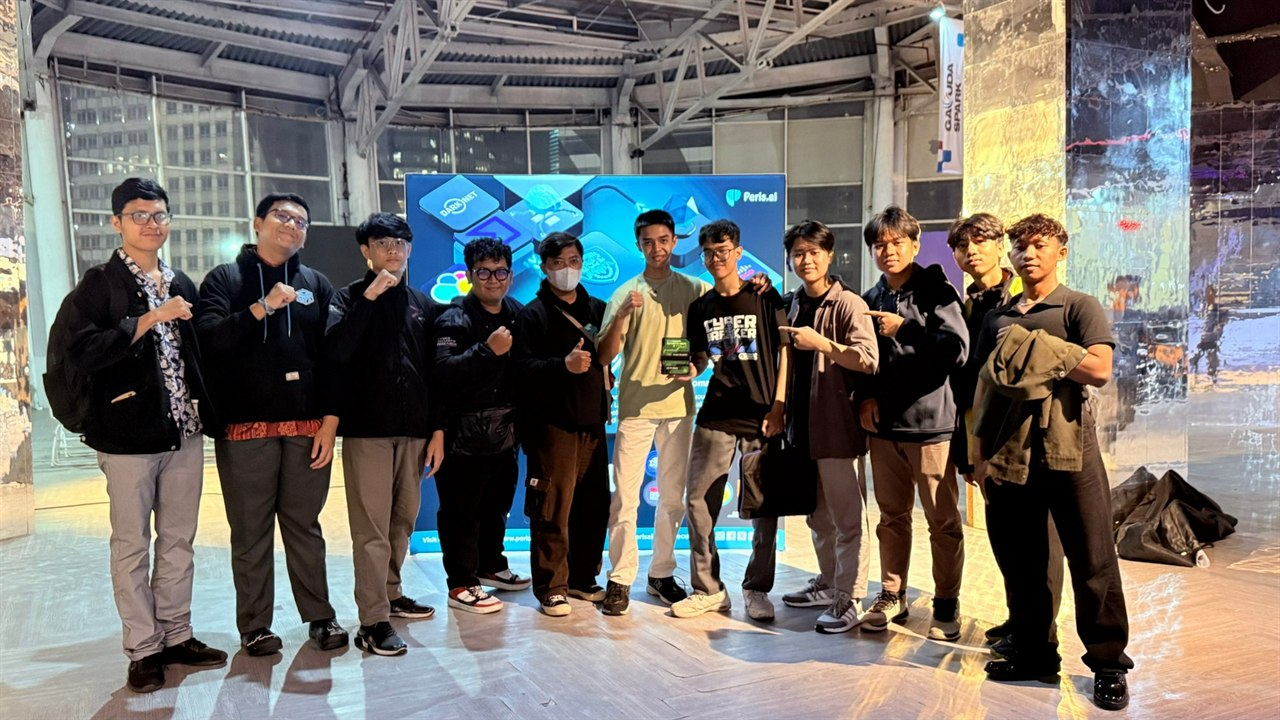
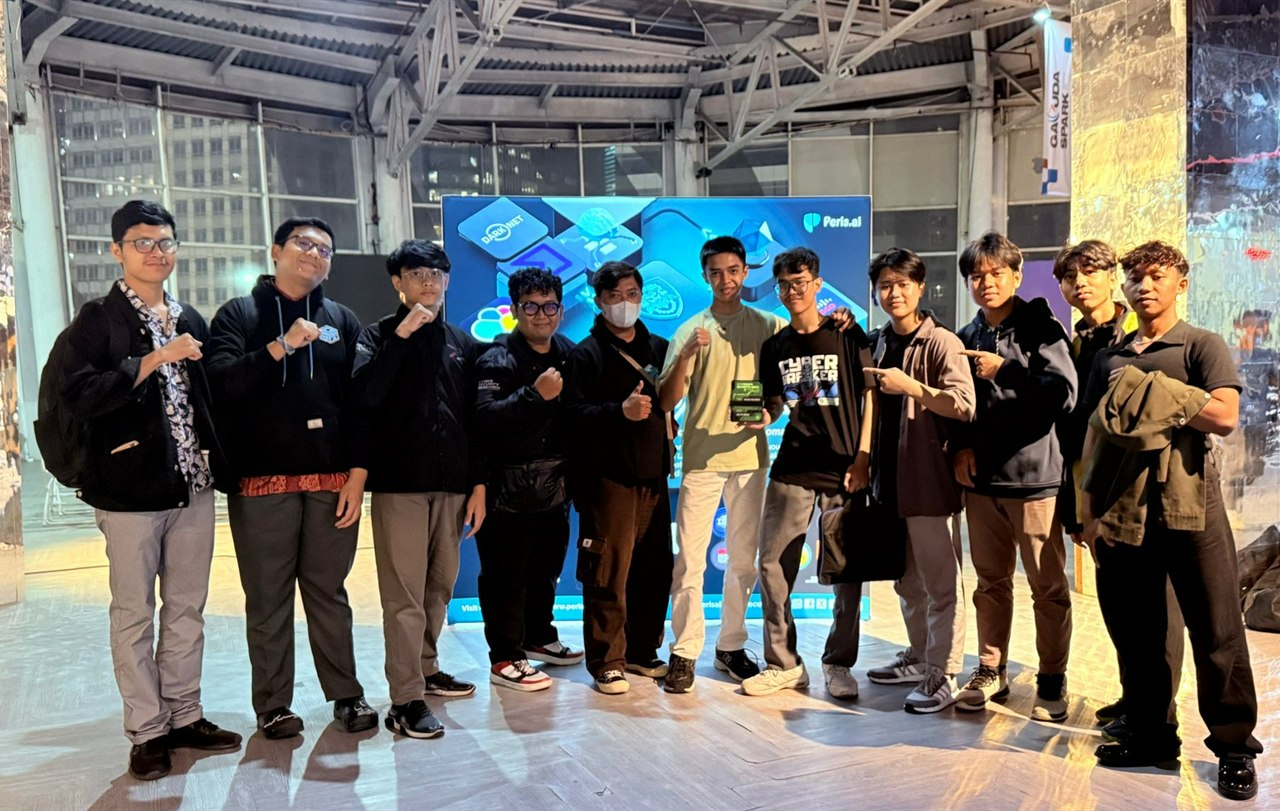
style: standardize all 7 Polaroid frames to uniform square size with ambient blur fill

diff --git a/index.html b/index.html
@@ -1179,9 +1179,10 @@
         <!-- POLAROID 5: CYBER BREAKER CREW (KLIK UNTUK MEMBUKA) -->
         <div onclick="openCommunityLightbox(4)" class="group relative bg-[#fafafa] text-zinc-900 rounded-sm p-3.5 pb-7 shadow-[0_15px_35px_rgba(0,0,0,0.65)] -rotate-2 hover:rotate-0 hover:scale-105 hover:z-30 transition-all duration-300 w-full max-w-[275px] sm:w-[260px] border border-white/60 cursor-pointer select-none">
           <!-- Photo Frame -->
-          <div class="aspect-[4/3] w-full overflow-hidden bg-zinc-950 rounded-[2px] mb-3 relative">
-            <img src="assets/community/community-cyber-breaker-crew.jpg" alt="Cyber Breaker Crew di Peris.ai" class="w-full h-full object-contain group-hover:scale-105 transition-transform duration-500" loading="lazy" />
-            <div class="absolute inset-0 bg-black/25 opacity-0 group-hover:opacity-100 transition-opacity flex items-center justify-center text-white">
+          <div class="aspect-square w-full overflow-hidden bg-zinc-950 rounded-[2px] mb-3 relative flex items-center justify-center">
+            <img src="assets/community/community-cyber-breaker-crew.jpg" alt="" aria-hidden="true" class="absolute inset-0 w-full h-full object-cover blur-xl scale-125 brightness-95 opacity-90 pointer-events-none" loading="lazy" />
+            <img src="assets/community/community-cyber-breaker-crew.jpg" alt="Cyber Breaker Crew di Peris.ai" class="relative z-10 w-full h-full object-contain group-hover:scale-105 transition-transform duration-500" loading="lazy" />
+            <div class="absolute inset-0 z-20 bg-black/25 opacity-0 group-hover:opacity-100 transition-opacity flex items-center justify-center text-white">
               <span class="px-3 py-1 rounded-full bg-black/60 backdrop-blur-md text-[11px] font-mono flex items-center gap-1.5 border border-white/20">
                 <i data-lucide="maximize-2" class="w-3.5 h-3.5"></i>
                 <span>Buka Foto</span>
@@ -1198,9 +1199,10 @@
         <!-- POLAROID 6: TECH SQUAD (KLIK UNTUK MEMBUKA) -->
         <div onclick="openCommunityLightbox(5)" class="group relative bg-[#fafafa] text-zinc-900 rounded-sm p-3.5 pb-7 shadow-[0_15px_35px_rgba(0,0,0,0.65)] rotate-2 hover:rotate-0 hover:scale-105 hover:z-30 transition-all duration-300 w-full max-w-[275px] sm:w-[260px] border border-white/60 cursor-pointer select-none">
           <!-- Photo Frame -->
-          <div class="aspect-[4/3] w-full overflow-hidden bg-zinc-950 rounded-[2px] mb-3 relative">
-            <img src="assets/community/community-tech-squad.jpg" alt="Dokumentasi Tim di Garuda Spark" class="w-full h-full object-cover group-hover:scale-105 transition-transform duration-500" loading="lazy" />
-            <div class="absolute inset-0 bg-black/25 opacity-0 group-hover:opacity-100 transition-opacity flex items-center justify-center text-white">
+          <div class="aspect-square w-full overflow-hidden bg-zinc-950 rounded-[2px] mb-3 relative flex items-center justify-center">
+            <img src="assets/community/community-tech-squad.jpg" alt="" aria-hidden="true" class="absolute inset-0 w-full h-full object-cover blur-xl scale-125 brightness-95 opacity-90 pointer-events-none" loading="lazy" />
+            <img src="assets/community/community-tech-squad.jpg" alt="Dokumentasi Tim di Garuda Spark" class="relative z-10 w-full h-full object-contain group-hover:scale-105 transition-transform duration-500" loading="lazy" />
+            <div class="absolute inset-0 z-20 bg-black/25 opacity-0 group-hover:opacity-100 transition-opacity flex items-center justify-center text-white">
               <span class="px-3 py-1 rounded-full bg-black/60 backdrop-blur-md text-[11px] font-mono flex items-center gap-1.5 border border-white/20">
                 <i data-lucide="maximize-2" class="w-3.5 h-3.5"></i>
                 <span>Buka Foto</span>
@@ -1217,9 +1219,10 @@
         <!-- POLAROID 7: CYBER BREAKER TALKS (KLIK UNTUK MEMBUKA) -->
         <div onclick="openCommunityLightbox(6)" class="group relative bg-[#fafafa] text-zinc-900 rounded-sm p-3.5 pb-7 shadow-[0_15px_35px_rgba(0,0,0,0.65)] -rotate-1 hover:rotate-0 hover:scale-105 hover:z-30 transition-all duration-300 w-full max-w-[275px] sm:w-[260px] border border-white/60 cursor-pointer select-none">
           <!-- Photo Frame -->
-          <div class="aspect-[4/3] w-full overflow-hidden bg-zinc-950 rounded-[2px] mb-3 relative">
-            <img src="assets/community/community-cyber-breaker-talks.jpg" alt="Cyber Breaker Talks Session di Ganara Art" class="w-full h-full object-cover group-hover:scale-105 transition-transform duration-500" loading="lazy" />
-            <div class="absolute inset-0 bg-black/25 opacity-0 group-hover:opacity-100 transition-opacity flex items-center justify-center text-white">
+          <div class="aspect-square w-full overflow-hidden bg-zinc-950 rounded-[2px] mb-3 relative flex items-center justify-center">
+            <img src="assets/community/community-cyber-breaker-talks.jpg" alt="" aria-hidden="true" class="absolute inset-0 w-full h-full object-cover blur-xl scale-125 brightness-95 opacity-90 pointer-events-none" loading="lazy" />
+            <img src="assets/community/community-cyber-breaker-talks.jpg" alt="Cyber Breaker Talks Session di Ganara Art" class="relative z-10 w-full h-full object-contain group-hover:scale-105 transition-transform duration-500" loading="lazy" />
+            <div class="absolute inset-0 z-20 bg-black/25 opacity-0 group-hover:opacity-100 transition-opacity flex items-center justify-center text-white">
               <span class="px-3 py-1 rounded-full bg-black/60 backdrop-blur-md text-[11px] font-mono flex items-center gap-1.5 border border-white/20">
                 <i data-lucide="maximize-2" class="w-3.5 h-3.5"></i>
                 <span>Buka Foto</span>
